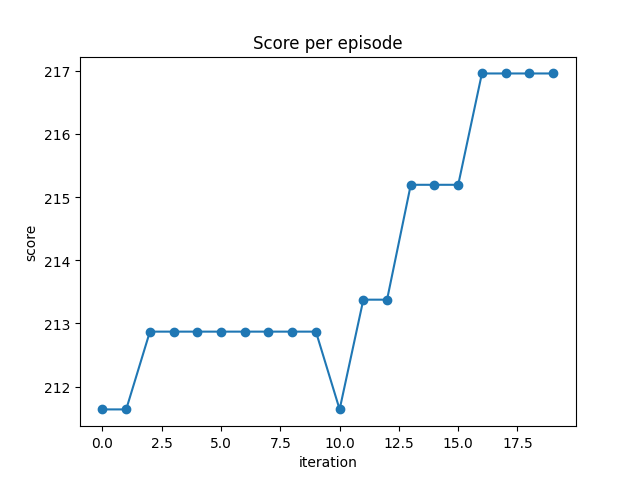
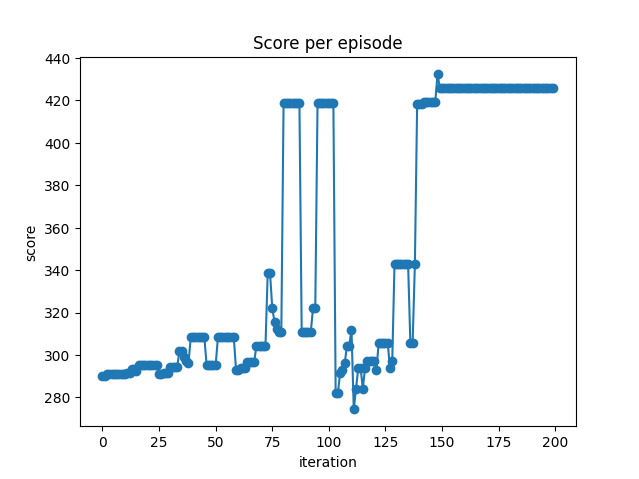
decreasing step_size + explore / exploit balance

diff --git a/Grid.py b/Grid.py
@@ -9,12 +9,14 @@ class Grid:
         self.reward_matrix[tuple(charge_station)] = CHARGE_REWARD
         self.waypoints_status = 0
 
-        for w in waypoints:
-            self.reward_matrix[tuple(w)] = WAYPOINT_REWARD
-
         self.waypoints = waypoints
         self.charge_station = charge_station
         self.episode_continues = True
+        self.waypoints_counter = waypoints.shape[0]
+
+        for w in waypoints:
+            self.reward_matrix[tuple(w)] = WAYPOINT_REWARD
+
     
     def random_generate(N, charge_station = np.zeros(2, 'int32')):
         coords = np.random.choice(np.arange(1, MAX_X * MAX_Y), N, replace=False)
@@ -33,9 +35,74 @@ class Grid:
     def nearest_new_waypoint(self, position: np.array):
         return self.waypoints[self.distances_from_new_waypoints(position).argmin()]
     
-    def distance_to_furthest_waypoint(self, position: np.array):
-        return self.distances_from_new_waypoints(position).max()
+    def waypoint_index(self, position: np.array):
+        return np.where(np.all(self.waypoints == position, axis=1))
+    
+    def is_charge_station(self, position: np.array):
+        return np.all(self.charge_station == position)
 
+    def all_waypoints_visited(self):
+        return self.waypoints_counter == 0
+
+    def border_penalty(self, position: np.array):
+        x, y = position
+        if x == 0:
+            if y == 0:
+                return 0
+            return -10
+        
+        if x == WIDTH - 1 or y == 0 or y == HEIGTH - 1:
+            return -10
+        return 0
+
+    def too_far_from_charge_station_reward(self, robot: Robot):
+        if self.distance_from_charge_station(robot.position) > robot.battery:
+            return -20
+        return 0
+
+    def compute_reward(self, robot: Robot):
+        reward = self.too_far_from_charge_station_reward(robot) + self.border_penalty(robot.position)
+
+        if self.is_charge_station(robot.position):
+            if self.all_waypoints_visited():
+                self.episode_continues = False
+                print('Mission accomplished')
+                return CHARGE_REWARD + COMPLETE_REWARD + reward
+            else:
+                robot.recharge()
+                return CHARGE_REWARD + reward
+
+        if not robot.can_move():
+            self.episode_continues = False
+            return FAIL_REWARD + reward
+        
+        i = self.waypoint_index(robot.position)[0]
+        is_hovering_waypoint = len(i) > 0
+
+        if is_hovering_waypoint:
+            i = i.item()
+            self.waypoints = np.delete(self.waypoints, i, axis=0)
+            self.waypoints_counter -= 1
+            self.waypoints_status += 2 ** i
+            return WAYPOINT_REWARD + reward
+        
+        if self.all_waypoints_visited():
+            target_distance = self.distance_from_charge_station(robot.position)
+        else:
+            target_distance = self.distance_between(robot.position, self.nearest_new_waypoint(robot.position))
+
+        return reward + WAYPOINT_REWARD/((target_distance + 1)**2)
+
+    def draw_charge_station(self, screen):
+        x, y = self.charge_station
+        pg.draw.rect(screen, GREEN, (x*SIZE+1, y*SIZE+1, SIZE-1, SIZE-1))
+    
+    def draw_waypoints(self, screen):
+        for w in self.waypoints:
+            x, y = w
+            pg.draw.rect(screen, BLUE, (x*SIZE+1, y*SIZE+1, SIZE-1, SIZE-1))
+    
+    """
     def direction_to(self, arrival: np.array, start: np.array):
         dx, dy = arrival - start
 
@@ -49,47 +116,4 @@ class Grid:
     
     def direction_to_charge_station(self, position: np.array):
         return self.direction_to(arrival=self.charge_station, start=position)
-    
-    def waypoint_index(self, position: np.array):
-        return np.where(np.all(self.waypoints == position, axis=1))
-    
-    def is_charge_station(self, position: np.array):
-        return np.all(self.charge_station == position)
-    
-    def all_waypoints_visited(self):
-        return len(self.waypoints) == 0
-
-    def compute_reward(self, robot: Robot):
-        if self.is_charge_station(robot.position):
-            if self.all_waypoints_visited():
-                self.episode_continues = False
-                print('Mission accomplished')
-                return CHARGE_REWARD + COMPLETE_REWARD
-            else:
-                robot.recharge()
-                return CHARGE_REWARD
-
-        if not robot.can_move():
-            self.episode_continues = False
-            return FAIL_REWARD
-        
-        i = self.waypoint_index(robot.position)[0]
-        is_hovering_waypoint = len(i) > 0
-
-        if is_hovering_waypoint:
-            i = i.item()
-            self.waypoints = np.delete(self.waypoints, i, axis=0)
-            self.waypoints_status += 2 ** i
-            return WAYPOINT_REWARD
-        
-        waypoint_dist = self.distance_between(robot.position, self.nearest_new_waypoint(robot.position))
-        return EMPTY_REWARD + WAYPOINT_REWARD/((waypoint_dist + 1)**2)
-
-    def draw_charge_station(self, screen):
-        x, y = self.charge_station
-        pg.draw.rect(screen, GREEN, (x*SIZE+1, y*SIZE+1, SIZE-1, SIZE-1))
-    
-    def draw_waypoints(self, screen):
-        for w in self.waypoints:
-            x, y = w
-            pg.draw.rect(screen, BLUE, (x*SIZE+1, y*SIZE+1, SIZE-1, SIZE-1))
+"""

diff --git a/main.py b/main.py
@@ -32,14 +32,14 @@ def set_seed(seed):
 
 def setup(nwaypoints, charge_station):
     x, y = charge_station
-    robot = Robot(x=x, y=y, full_battery=100)
+    robot = Robot(x=x, y=y, full_battery=50)
     grid = Grid.random_generate(N=nwaypoints, charge_station=charge_station)
     return grid, robot
 
-def init_graphics(seed):
+def init_graphics(seed, title):
     pg.init()
     screen = pg.display.set_mode((WIDTH, HEIGTH))
-    pg.display.set_caption(f'AAIR seed {seed}')
+    pg.display.set_caption(f'AAIR seed {seed} - {title}')
     screen.fill(WHITE)
 
     for y in range(0, HEIGTH, SIZE):
@@ -56,13 +56,13 @@ def pygame_quit():
             return True
     return False
 
-def experiment_draw(seed, vf, nwaypoints = N_WAYPOINTS, charge_station_position = np.zeros(2, 'int32')):
+def experiment_draw(seed, vf, title, nwaypoints = N_WAYPOINTS, charge_station_position = np.zeros(2, 'int32')):
     set_seed(seed)
     grid, robot = setup(nwaypoints, charge_station_position)
 
     s0 = state_key(robot, grid)
     score = 0
-    screen = init_graphics(seed)
+    screen = init_graphics(seed, title)
 
     while grid.episode_continues:
         if pygame_quit():
@@ -79,7 +79,7 @@ def experiment_draw(seed, vf, nwaypoints = N_WAYPOINTS, charge_station_position 
         robot.draw(screen)
 
         reward = grid.compute_reward(robot)
-        score += DISCOUNT_FACTOR * reward
+        score += REWARD_DISCOUNT * reward
         s1 = state_key(robot, grid)
         vf.update(s0, s1, reward)
         s0 = s1
@@ -103,7 +103,7 @@ def experiment(seed, vf, nwaypoints = N_WAYPOINTS, charge_station_position = np.
         robot.move(direction)
 
         reward = grid.compute_reward(robot)
-        score += DISCOUNT_FACTOR * reward
+        score += REWARD_DISCOUNT * reward
         s1 = state_key(robot, grid)
         vf.update(s0, s1, reward)
         s0 = s1
@@ -128,7 +128,7 @@ def plot_hist(values, bins=20):
     plt.title("Histogram")
     plt.savefig(f'hist{bins}.png')
 
-vf = ValueFunction(step_size=0.9, discount_factor=DISCOUNT_FACTOR)
+vf = ValueFunction(step_size_lambda=STEP_SIZE_RULE, reward_discount=REWARD_DISCOUNT)
 
 x_vals = []
 y_vals = []
@@ -156,25 +156,25 @@ def update_plot(x, y):
 
 plt.show(block=False)   # fondamentale
 
-eps_exp = 2/3
-eps_std = 1 - eps_exp
-nepisode_exp = 20
+eps_explore = .8
+eps_exploit = 1 - eps_explore
 
-EPSILON = eps_exp
-for it in range(20):
-    score = experiment(42, vf)
+nexplore = 5
+nexploit = 10
+
+it = 0
+
+def draw_cycle(it, title):
+    if it < 130:
+        score = experiment(42, vf)
+    else:
+        score = experiment_draw(42, vf, title)
     update_plot(it, score)
 
-plt.savefig('img.png')
-
-EPSILON = eps_std
-for it in range(nepisode_exp, 800 + nepisode_exp):
-    score = experiment(42, vf)
-    update_plot(it, score)
-    
-
-for it in range(800 + nepisode_exp, 800 + nepisode_exp + 10):
-    score = experiment_draw(42, vf)
-    update_plot(it, score)
-
-plt.savefig('img.png')
+while True:
+    EPSILON = eps_explore
+    for it in range(it, it + nexplore):
+        draw_cycle(it, 'EXPLORE')
+    EPSILON = eps_exploit
+    for it in range(it, it + nexploit):
+        draw_cycle(it, 'EXPLOIT')

diff --git a/ValueFunction.py b/ValueFunction.py
@@ -1,14 +1,15 @@
 class ValueFunction:
-    def __init__(self, step_size, discount_factor = 1, default_value = 0):
+    def __init__(self, step_size_lambda, reward_discount = 1, default_value = 0):
+        self.t = 0
         self.sparse_dict = {}
-        self.step_size = step_size
-        self.discount_factor = discount_factor
+        self.step_size_lambda = step_size_lambda
+        self.reward_discount = reward_discount
         self.default_value = default_value
 
     def update(self, old_state_key, new_state_key, reward):
         v1 = self.get(old_state_key)
         v2 = self.get(new_state_key)
-        self.sparse_dict[old_state_key] = v1 + self.step_size * (reward + self.discount_factor * v2 - v1)
+        self.sparse_dict[old_state_key] = v1 + self.step_size_lambda(self.t) * (reward + self.reward_discount * v2 - v1)
     
     def get(self, key):
         return self.sparse_dict.get(key, self.default_value)

diff --git a/config.py b/config.py
@@ -8,10 +8,10 @@ MAX_X = MAX_Y = 10
 SIZE = 50
 WIDTH, HEIGTH = MAX_X * SIZE, MAX_Y * SIZE
 
-FRAME_DRAW_TIMER = .1
+FRAME_DRAW_TIMER = .05
 EPSILON = 1/3
 
-DISCOUNT_FACTOR = 0.9
+REWARD_DISCOUNT = 0.9
 
 WHITE = (255, 255, 255)
 BLACK = (0, 0, 0)
@@ -24,3 +24,6 @@ import numpy as np
 DIRECTIONS = np.array([[1,0], [0,1], [-1,0], [0, -1]], dtype='int32')
 
 N_WAYPOINTS = 3
+
+STEP_SIZE_RULE = lambda t: 1 / (t + 1)
+BORDER_REWARD = -100